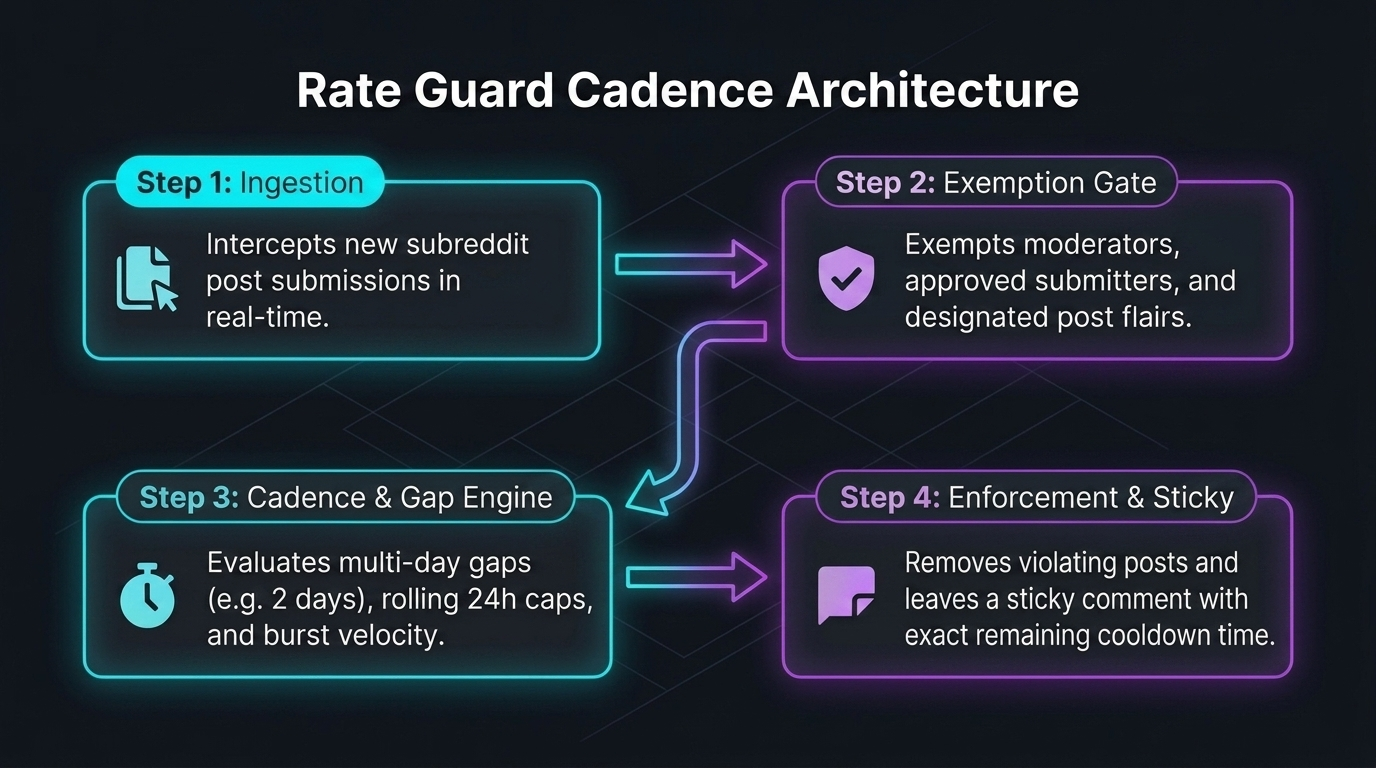
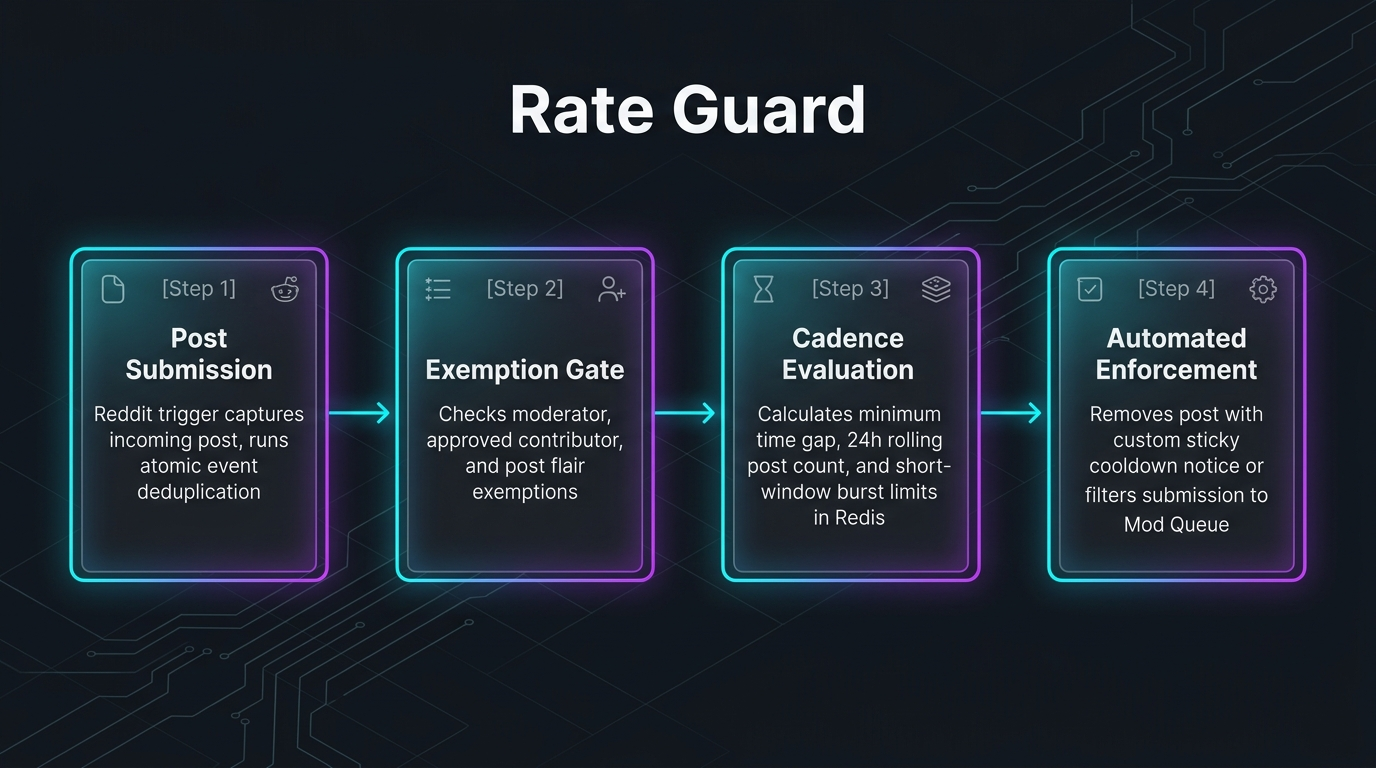
chore: update assets for rate-guard v0.0.9

diff --git a/rate-guard/readme.html b/rate-guard/readme.html
@@ -6,14 +6,16 @@
 <p><a href="https://img.shields.io/badge/Category-Moderation-blue?style=for-the-badge">Category</a></p>
 <p><a href="https://img.shields.io/badge/Type-Cadence_Engine-8A2BE2?style=for-the-badge">Type</a></p>
 <blockquote><p><strong>Prevent spam floods, enforce posting cooldowns, and maintain a healthy community cadence.</strong></p></blockquote>
-<p>Rate Guard protects your subreddit feed from rapid-fire spam floods, karma farming bursts, and excessive multi-posting. Enforce minimum cooldown gaps, rolling daily submission caps, and burst limits with automatic "next allowed post time" calculation—all configured easily within Reddit.</p>
+<p>Rate Guard protects your subreddit feed from rapid-fire spam floods, karma farming bursts, and excessive multi-posting. Enforce minimum cooldown gaps, rolling daily submission caps, and burst limits with automatic "next allowed post time" calculation—managed through an in-webview Control Center directly within Reddit.</p>
 <p>---</p>
 <h2>At a Glance</h2>
 <ul>
+<li><strong>In-webview Control Center</strong>: Manage posting frequency limits, audit logs, and templates directly from your subreddit menu.</li>
 <li><strong>Multi-day cooldowns & gap limits</strong>: Enforce custom days (e.g. 2 days) or minutes between consecutive user submissions.</li>
 <li><strong>Set daily post caps</strong>: Limit the total number of posts a user can submit per 24-hour window.</li>
 <li><strong>Stop burst attacks</strong>: Detect and mitigate rapid multi-post bursts (e.g. 3 posts in 5 minutes).</li>
-<li><strong>Exact time guidance</strong>: Automatically inform users of their exact next allowed submission time (formatted in days/hours).</li>
+<li><strong>Flexible enforcement</strong>: Choose between automated post removal with sticky notices or filtering submissions to the Mod Queue.</li>
+<li><strong>Live author simulator</strong>: Inspect any author's active Redis cooldown history and test evaluations in real time.</li>
 <li><strong>Granular exemptions</strong>: Protect moderators, approved contributors, and specific post flairs automatically.</li>
 </ul>
 <p>---</p>
@@ -21,10 +23,12 @@
 <p>---</p>
 <h2>Built for Balanced Posting Cadence</h2>
 <ul>
+<li><strong>Interactive Control Center</strong>: Launch the dashboard from your subreddit menu to tune policy, preview sticky templates, view live audit logs, and test author cooldowns.</li>
 <li><strong>Minimum Time Gap Cooldown</strong>: Enforce strict spacing between consecutive user submissions to prevent single authors from dominating the new queue.</li>
 <li><strong>Rolling Window Caps</strong>: Limit total allowed posts across rolling 24-hour windows to ensure diverse community voices.</li>
 <li><strong>Burst Protection Engine</strong>: Intercept rapid multi-submission bursts before they clutter community feeds or overwhelm mod review.</li>
-<li><strong>Clear Author Sticky Comments</strong>: Post automated, transparent notices stating the exact cooldown remaining and next allowed posting time.</li>
+<li><strong>Customizable Sticky Notices</strong>: Tailor automated notices with dynamic `{next_allowed_time}` and `{time_remaining}` tokens and live Markdown rendering.</li>
+<li><strong>Filter to Mod Queue</strong>: Route borderline cadence violations directly to the Subreddit Mod Queue for human review instead of immediate removal.</li>
 <li><strong>Comprehensive Exemptions</strong>: Easily exempt moderators, approved submitters, or designated post flairs (such as event megathreads).</li>
 <li><strong>Privacy-First Architecture</strong>: Stores only submission timestamps and post IDs in Redis—zero user post text or private data is ever retained.</li>
 </ul>
@@ -35,11 +39,11 @@
 <p>1. <strong>Submit</strong>: A user submits a post to the subreddit.</p>
 <p>2. <strong>Verify</strong>: Rate Guard checks author and flair exemptions (moderators, approved users, exempt post flairs).</p>
 <p>3. <strong>Evaluate</strong>: If not exempt, the submission is evaluated against burst velocity limits, minimum cooldown gaps, and 24-hour caps.</p>
-<p>4. <strong>Enforce</strong>: If a threshold is exceeded, Rate Guard removes the post and sticky-comments the exact next allowed submission time.</p>
+<p>4. <strong>Enforce</strong>: If a threshold is exceeded, Rate Guard removes the post (with a sticky notice) or filters it to the Mod Queue according to your configuration.</p>
 <p>---</p>
 <h2>Quick Setup</h2>
 <p>1. <strong>Install</strong>: Add <strong>Rate Guard</strong> to your subreddit through the Reddit App Directory.</p>
-<p>2. <strong>Configure</strong>: Open <strong>Mod Tools > App Settings > Rate Guard</strong>.</p>
+<p>2. <strong>Open Dashboard</strong>: Click <strong>GuardHub: RateGuard Dashboard</strong> from your subreddit menu.</p>
 <p>3. <strong>Set Cadence</strong>: Configure your time between posts (in days or minutes), 24-hour rolling cap, and burst limit thresholds.</p>
 <p>4. <strong>Save</strong>: The cadence engine applies immediately to all incoming community posts.</p>
 <p>*No external servers or complicated bot hosting required. Clean, automated rate limiting inside Reddit.*</p>
@@ -50,6 +54,7 @@
 <li><strong>Redis Sorted Set Timestamps</strong>: Records submission timestamps in per-user sorted sets (`ZSET`) with sliding window score queries.</li>
 <li><strong>Burst Velocity Detection</strong>: Evaluates submission cluster counts across short time intervals (e.g. 5-minute windows).</li>
 <li><strong>Millisecond Timestamp Arithmetic</strong>: Accurately computes remaining cooldown milliseconds and formats localized ISO time strings.</li>
+<li><strong>Live User Simulator</strong>: Enter any username to inspect their active submission timestamps and test simulated posting outcomes.</li>
 <li><strong>Privacy-Safe Data Model</strong>: Stores only `postId` keys and epoch timestamps, maintaining clean data hygiene and automatic TTL expiry.</li>
 </ul>
 <p>---</p>

diff --git a/rate-guard/wiki.html b/rate-guard/wiki.html
@@ -1,7 +1,7 @@
 <h1>RateGuard</h1>
 
 <p>Category: Moderation<br>
-Version: v0.0.8<br>
+Version: v0.0.9<br>
 Visibility: Public<br>
 Summary: Dedicated submission-frequency & posting-cadence gatekeeper for Reddit.</p>
 
@@ -20,30 +20,13 @@ Summary: Dedicated submission-frequency & posting-cadence gatekeeper for Reddit.
 <h2>Triggers and Activation</h2>
 <h3>Event Triggers</h3>
 <ul>
-<li>PostSubmit: Delivered by Reddit event router to endpoint /internal/on-post-submit.</li>
-<li>PostCreate: Delivered by Reddit event router to endpoint /internal/on-post-create.</li>
-</ul>
-<h3>Menu Actions</h3>
-<ul>
-<li>GuardHub: RateGuard Settings: Configure posting frequency limits and cooldowns. (Location: subreddit)</li>
+<li>PostSubmit: Delivered by Reddit event router to endpoint /internal/trigger/post.</li>
+<li>PostCreate: Delivered by Reddit event router to endpoint /internal/trigger/post.</li>
+<li>AppInstall: Delivered by Reddit event router to endpoint /internal/on-app-install.</li>
+<li>AppUpgrade: Delivered by Reddit event router to endpoint /internal/on-app-install.</li>
 </ul>
 <h3>Custom Post Types and Entrypoints</h3>
-<p>Features interactive custom post UI or Block views rendered natively on Reddit. Entrypoint: src/server/index.ts</p>
-
-<h2>Settings Reference</h2>
-<p>Subreddit moderators configure the app in Mod Tools -&gt; App Settings.</p>
-<ul>
-<li>appEnabled: Enable RateGuard (boolean, default: true). Master toggle to enable or pause RateGuard posting frequency limits.</li>
-<li>appMode: App Enforcement Mode (select, default: dry_run). App Enforcement Mode</li>
-<li>minGapDays: Time Between Posts (Days) (number, default: 0). Minimum required days between consecutive user submissions (e.g. 2 = user can only post once every 2 days). Set to 0 if using minutes cooldown below.</li>
-<li>minGapMinutes: Minimum Gap Cooldown (Minutes) (number, default: 120). Minimum required time in minutes between consecutive user submissions (e.g. 120 = 2 hours, 1440 = 1 day, 2880 = 2 days). 0 = disabled.</li>
-<li>maxPosts24h: Rolling 24-Hour Post Cap (number, default: 3). Maximum posts allowed per user in a 24-hour rolling window. 0 = disabled.</li>
-<li>burstMaxPosts: Burst Post Cap (number, default: 3). Maximum posts allowed within the burst window.</li>
-<li>burstWindowMinutes: Burst Window (Minutes) (number, default: 5). Window size in minutes for burst detection (e.g. 5 minutes).</li>
-<li>exemptMods: Exempt Subreddit Moderators (boolean, default: true). Exempt subreddit moderators from all rate limits.</li>
-<li>exemptApproved: Exempt Approved Contributors (boolean, default: true). Exempt approved submitters from all rate limits.</li>
-<li>exemptFlairs: Exempt Post Flairs (string, default: ). Comma-separated list of post flair names exempt from rate limits (e.g. "Megathread, Announcement").</li>
-</ul>
+<p>Features interactive custom post UI or Block views rendered natively on Reddit. Entrypoint: src/main.ts</p>
 
 <h2>Automation Capabilities</h2>
 <ul>
@@ -61,12 +44,13 @@ Summary: Dedicated submission-frequency & posting-cadence gatekeeper for Reddit.
 <li>Key-Value Strings (deduplication & cooldown markers)</li>
 <li>Hashes (structured records & alias indices)</li>
 <li>Sorted Sets (time-series audit logs)</li>
+<li>Key patterns: node:http, rate_guard:dashboard_post_id, rate_guard:meta</li>
 </ul>
 
 <h2>Setup and Usage</h2>
 <ul>
 <li>Install: Add Rate Guard to your subreddit through the Reddit App Directory.</li>
-<li>Configure: Open Mod Tools > App Settings > Rate Guard.</li>
+<li>Open Dashboard: Click GuardHub: RateGuard Dashboard from your subreddit menu.</li>
 <li>Set Cadence: Configure your time between posts (in days or minutes), 24-hour rolling cap, and burst limit thresholds.</li>
 <li>Save: The cadence engine applies immediately to all incoming community posts.</li>
 <li>No external servers or complicated bot hosting required. Clean, automated rate limiting inside Reddit.*</li>
@@ -79,12 +63,12 @@ Summary: Dedicated submission-frequency & posting-cadence gatekeeper for Reddit.
 </ul>
 
 <h2>Version History</h2>
+<p>0.0.9 — 2026-09-09<br>
+Standard fleet synchronization and maintenance.</p>
+<p>0.0.9 — 2026-09-08<br>
+Transformed into full Server + Webview GuardHub moderation app.; Added interactive Webview Control Center with Cadence Policy, Template Editor with live preview, Live Redis Audit Logs, and User Cooldown Simulator.; Added "Filter to Mod Queue" violation enforcement action alternative to post removals.; Added customizable sticky comment removal notice template with dynamic tokens (`{next_allowed_time}`, `{time_remaining}`).; Fixed moderator and approved user exemption verification API signatures.; Added atomic post event deduplication (`gh:rg:proc:${postId}`) across PostSubmit and PostCreate.; Filtered current postId from historical lookups to eliminate self-comparison false violations.; Upgraded to Devvit SDK v0.14.3 with full Vitest test suite.</p>
 <p>0.0.8 — 2026-09-02<br>
 Standard fleet synchronization and maintenance.</p>
-<p>0.0.7 — 2026-08-31<br>
-Standard fleet synchronization and maintenance.</p>
-<p>0.0.6 — 2026-08-27<br>
-Add minGapDays multi-day cooldown and fix blocks manifest</p>
 
 <h2>Links</h2>
 <ul>

diff --git a/rate-guard/readme.md b/rate-guard/readme.md
@@ -10,16 +10,18 @@
 
 > **Prevent spam floods, enforce posting cooldowns, and maintain a healthy community cadence.**
 
-Rate Guard protects your subreddit feed from rapid-fire spam floods, karma farming bursts, and excessive multi-posting. Enforce minimum cooldown gaps, rolling daily submission caps, and burst limits with automatic "next allowed post time" calculation—all configured easily within Reddit.
+Rate Guard protects your subreddit feed from rapid-fire spam floods, karma farming bursts, and excessive multi-posting. Enforce minimum cooldown gaps, rolling daily submission caps, and burst limits with automatic "next allowed post time" calculation—managed through an in-webview Control Center directly within Reddit.
 
 ---
 
 ## At a Glance
 
+- **In-webview Control Center**: Manage posting frequency limits, audit logs, and templates directly from your subreddit menu.
 - **Multi-day cooldowns & gap limits**: Enforce custom days (e.g. 2 days) or minutes between consecutive user submissions.
 - **Set daily post caps**: Limit the total number of posts a user can submit per 24-hour window.
 - **Stop burst attacks**: Detect and mitigate rapid multi-post bursts (e.g. 3 posts in 5 minutes).
-- **Exact time guidance**: Automatically inform users of their exact next allowed submission time (formatted in days/hours).
+- **Flexible enforcement**: Choose between automated post removal with sticky notices or filtering submissions to the Mod Queue.
+- **Live author simulator**: Inspect any author's active Redis cooldown history and test evaluations in real time.
 - **Granular exemptions**: Protect moderators, approved contributors, and specific post flairs automatically.
 
 ---
@@ -29,19 +31,21 @@ Rate Guard protects your subreddit feed from rapid-fire spam floods, karma farmi
 | Traditional Workflow | With Rate Guard |
 | :--- | :--- |
 | Manually tracking how many times a user posted today | **Automated sliding window counters** tracking exact 24-hour totals |
-| Scrambling during coordinated multi-post spam attacks | **Burst rate throttling** removing rapid floods within seconds |
+| Scrambling during coordinated multi-post spam attacks | **Burst rate throttling** intercepting rapid floods within seconds |
 | Manually calculating when a user is allowed to post again | **Exact time calculation** generated automatically in sticky notices |
-| Writing complex timestamp parsing bots on external servers | **Native Devvit Redis engine** operating entirely within Reddit infrastructure |
+| Burying settings in desktop Mod Tools | **Interactive Webview Control Center** with live audit logs and simulators |
 | Accidental removals of daily mod announcements | **Built-in author and flair exemptions** protecting important content |
 
 ---
 
 ## Built for Balanced Posting Cadence
 
+- **Interactive Control Center**: Launch the dashboard from your subreddit menu to tune policy, preview sticky templates, view live audit logs, and test author cooldowns.
 - **Minimum Time Gap Cooldown**: Enforce strict spacing between consecutive user submissions to prevent single authors from dominating the new queue.
 - **Rolling Window Caps**: Limit total allowed posts across rolling 24-hour windows to ensure diverse community voices.
 - **Burst Protection Engine**: Intercept rapid multi-submission bursts before they clutter community feeds or overwhelm mod review.
-- **Clear Author Sticky Comments**: Post automated, transparent notices stating the exact cooldown remaining and next allowed posting time.
+- **Customizable Sticky Notices**: Tailor automated notices with dynamic `{next_allowed_time}` and `{time_remaining}` tokens and live Markdown rendering.
+- **Filter to Mod Queue**: Route borderline cadence violations directly to the Subreddit Mod Queue for human review instead of immediate removal.
 - **Comprehensive Exemptions**: Easily exempt moderators, approved submitters, or designated post flairs (such as event megathreads).
 - **Privacy-First Architecture**: Stores only submission timestamps and post IDs in Redis—zero user post text or private data is ever retained.
 
@@ -56,14 +60,14 @@ Rate Guard protects your subreddit feed from rapid-fire spam floods, karma farmi
 1. **Submit**: A user submits a post to the subreddit.
 2. **Verify**: Rate Guard checks author and flair exemptions (moderators, approved users, exempt post flairs).
 3. **Evaluate**: If not exempt, the submission is evaluated against burst velocity limits, minimum cooldown gaps, and 24-hour caps.
-4. **Enforce**: If a threshold is exceeded, Rate Guard removes the post and sticky-comments the exact next allowed submission time.
+4. **Enforce**: If a threshold is exceeded, Rate Guard removes the post (with a sticky notice) or filters it to the Mod Queue according to your configuration.
 
 ---
 
 ## Quick Setup
 
 1. **Install**: Add **Rate Guard** to your subreddit through the Reddit App Directory.
-2. **Configure**: Open **Mod Tools > App Settings > Rate Guard**.
+2. **Open Dashboard**: Click **GuardHub: RateGuard Dashboard** from your subreddit menu.
 3. **Set Cadence**: Configure your time between posts (in days or minutes), 24-hour rolling cap, and burst limit thresholds.
 4. **Save**: The cadence engine applies immediately to all incoming community posts.
 
@@ -78,6 +82,7 @@ Rate Guard is engineered for precise sliding-window rate tracking and zero-laten
 - **Redis Sorted Set Timestamps**: Records submission timestamps in per-user sorted sets (`ZSET`) with sliding window score queries.
 - **Burst Velocity Detection**: Evaluates submission cluster counts across short time intervals (e.g. 5-minute windows).
 - **Millisecond Timestamp Arithmetic**: Accurately computes remaining cooldown milliseconds and formats localized ISO time strings.
+- **Live User Simulator**: Enter any username to inspect their active submission timestamps and test simulated posting outcomes.
 - **Privacy-Safe Data Model**: Stores only `postId` keys and epoch timestamps, maintaining clean data hygiene and automatic TTL expiry.
 
 ---

diff --git a/rate-guard/wiki.md b/rate-guard/wiki.md
@@ -1,7 +1,7 @@
 # RateGuard
 
 Category: Moderation  
-Version: v0.0.8  
+Version: v0.0.9  
 Visibility: Public  
 Summary: Dedicated submission-frequency & posting-cadence gatekeeper for Reddit.
 
@@ -20,24 +20,18 @@ Dedicated submission-frequency & posting-cadence gatekeeper for Reddit.
 
 ## Triggers and Activation
 ### Menu Actions
-- GuardHub: RateGuard Settings: Configure posting frequency limits and cooldowns. (Location: subreddit)
+- PostSubmit: Delivered by Reddit event router to endpoint /internal/trigger/post.
+- PostCreate: Delivered by Reddit event router to endpoint /internal/trigger/post.
+- AppInstall: Delivered by Reddit event router to endpoint /internal/on-app-install.
+- AppUpgrade: Delivered by Reddit event router to endpoint /internal/on-app-install.
 
 ### Custom Post Types and Entrypoints
-- Features interactive custom post UI or Block views rendered natively on Reddit. (Entrypoint: src/server/index.ts)
+- Features interactive custom post UI or Block views rendered natively on Reddit. (Entrypoint: src/main.ts)
 
 ## Settings Reference
 Subreddit moderators configure the app in Mod Tools -> App Settings.
 
-- appEnabled: Enable RateGuard (boolean, default: true). Master toggle to enable or pause RateGuard posting frequency limits.
-- appMode: App Enforcement Mode (select, default: dry_run). App Enforcement Mode
-- minGapDays: Time Between Posts (Days) (number, default: 0). Minimum required days between consecutive user submissions (e.g. 2 = user can only post once every 2 days). Set to 0 if using minutes cooldown below.
-- minGapMinutes: Minimum Gap Cooldown (Minutes) (number, default: 120). Minimum required time in minutes between consecutive user submissions (e.g. 120 = 2 hours, 1440 = 1 day, 2880 = 2 days). 0 = disabled.
-- maxPosts24h: Rolling 24-Hour Post Cap (number, default: 3). Maximum posts allowed per user in a 24-hour rolling window. 0 = disabled.
-- burstMaxPosts: Burst Post Cap (number, default: 3). Maximum posts allowed within the burst window.
-- burstWindowMinutes: Burst Window (Minutes) (number, default: 5). Window size in minutes for burst detection (e.g. 5 minutes).
-- exemptMods: Exempt Subreddit Moderators (boolean, default: true). Exempt subreddit moderators from all rate limits.
-- exemptApproved: Exempt Approved Contributors (boolean, default: true). Exempt approved submitters from all rate limits.
-- exemptFlairs: Exempt Post Flairs (string, default: ). Comma-separated list of post flair names exempt from rate limits (e.g. "Megathread, Announcement").
+- No custom app settings.
 
 ## Automation Capabilities
 - Submits Automated Comments: Yes — Posts automated comments on target submissions.
@@ -53,10 +47,11 @@ This app utilizes Reddit Redis storage for state management, caching, and rate l
 - Key-Value Strings (deduplication & cooldown markers)
 - Hashes (structured records & alias indices)
 - Sorted Sets (time-series audit logs)
+- Key patterns: node:http, rate_guard:dashboard_post_id, rate_guard:meta
 
 ## Setup and Usage
 - Install: Add Rate Guard to your subreddit through the Reddit App Directory.
-- Configure: Open Mod Tools > App Settings > Rate Guard.
+- Open Dashboard: Click GuardHub: RateGuard Dashboard from your subreddit menu.
 - Set Cadence: Configure your time between posts (in days or minutes), 24-hour rolling cap, and burst limit thresholds.
 - Save: The cadence engine applies immediately to all incoming community posts.
 - No external servers or complicated bot hosting required. Clean, automated rate limiting inside Reddit.*
@@ -66,14 +61,21 @@ This app utilizes Reddit Redis storage for state management, caching, and rate l
 - Ensure all required app settings and API keys are properly configured in Mod Tools.
 
 ## Version History
+0.0.9 — 2026-09-09
+- Standard fleet synchronization and maintenance.
+
+0.0.9 — 2026-09-08
+- Transformed into full Server + Webview GuardHub moderation app.
+- Added interactive Webview Control Center with Cadence Policy, Template Editor with live preview, Live Redis Audit Logs, and User Cooldown Simulator.
+- Added "Filter to Mod Queue" violation enforcement action alternative to post removals.
+- Added customizable sticky comment removal notice template with dynamic tokens (`{next_allowed_time}`, `{time_remaining}`).
+- Fixed moderator and approved user exemption verification API signatures.
+- Added atomic post event deduplication (`gh:rg:proc:${postId}`) across PostSubmit and PostCreate.
+- Filtered current postId from historical lookups to eliminate self-comparison false violations.
+- Upgraded to Devvit SDK v0.14.3 with full Vitest test suite.
+
 0.0.8 — 2026-09-02
 - Standard fleet synchronization and maintenance.
-
-0.0.7 — 2026-08-31
-- Standard fleet synchronization and maintenance.
-
-0.0.6 — 2026-08-27
-- Add minGapDays multi-day cooldown and fix blocks manifest
 
 ## Links
 - [Terms of Service](https://github.com/grantdb/reddit-app-legal/blob/main/rate-guard/TERMS.md)
